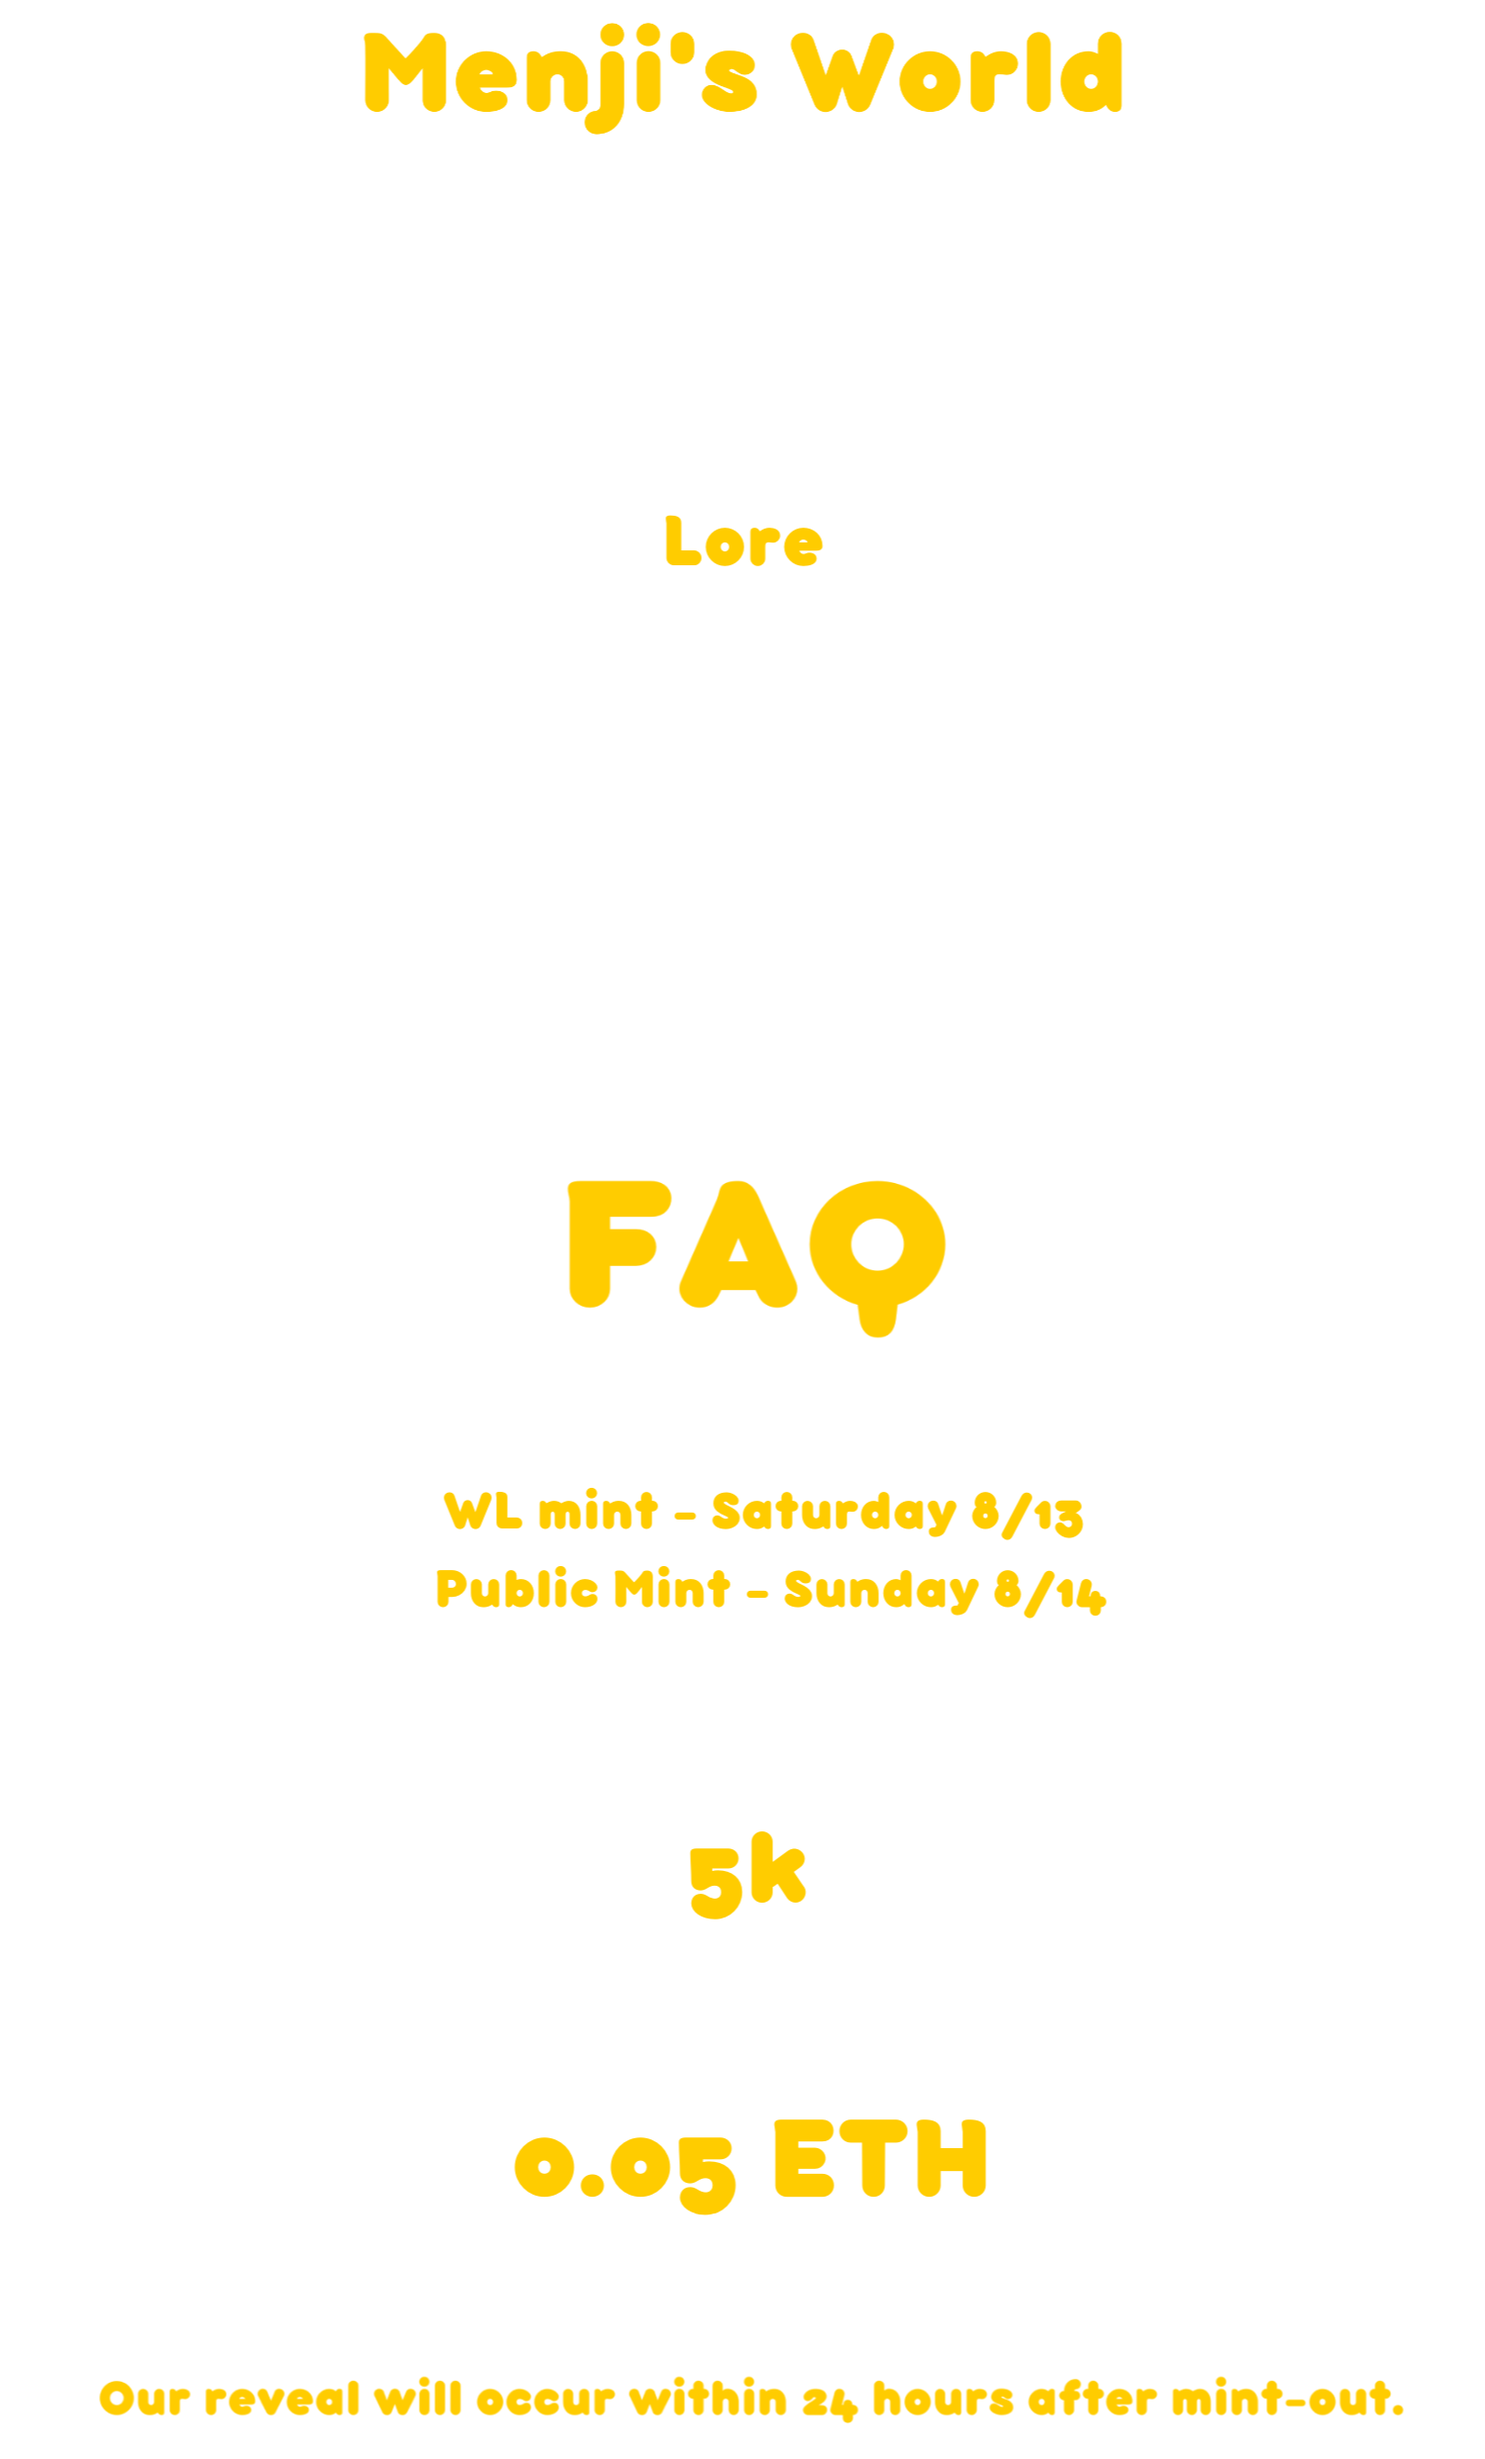
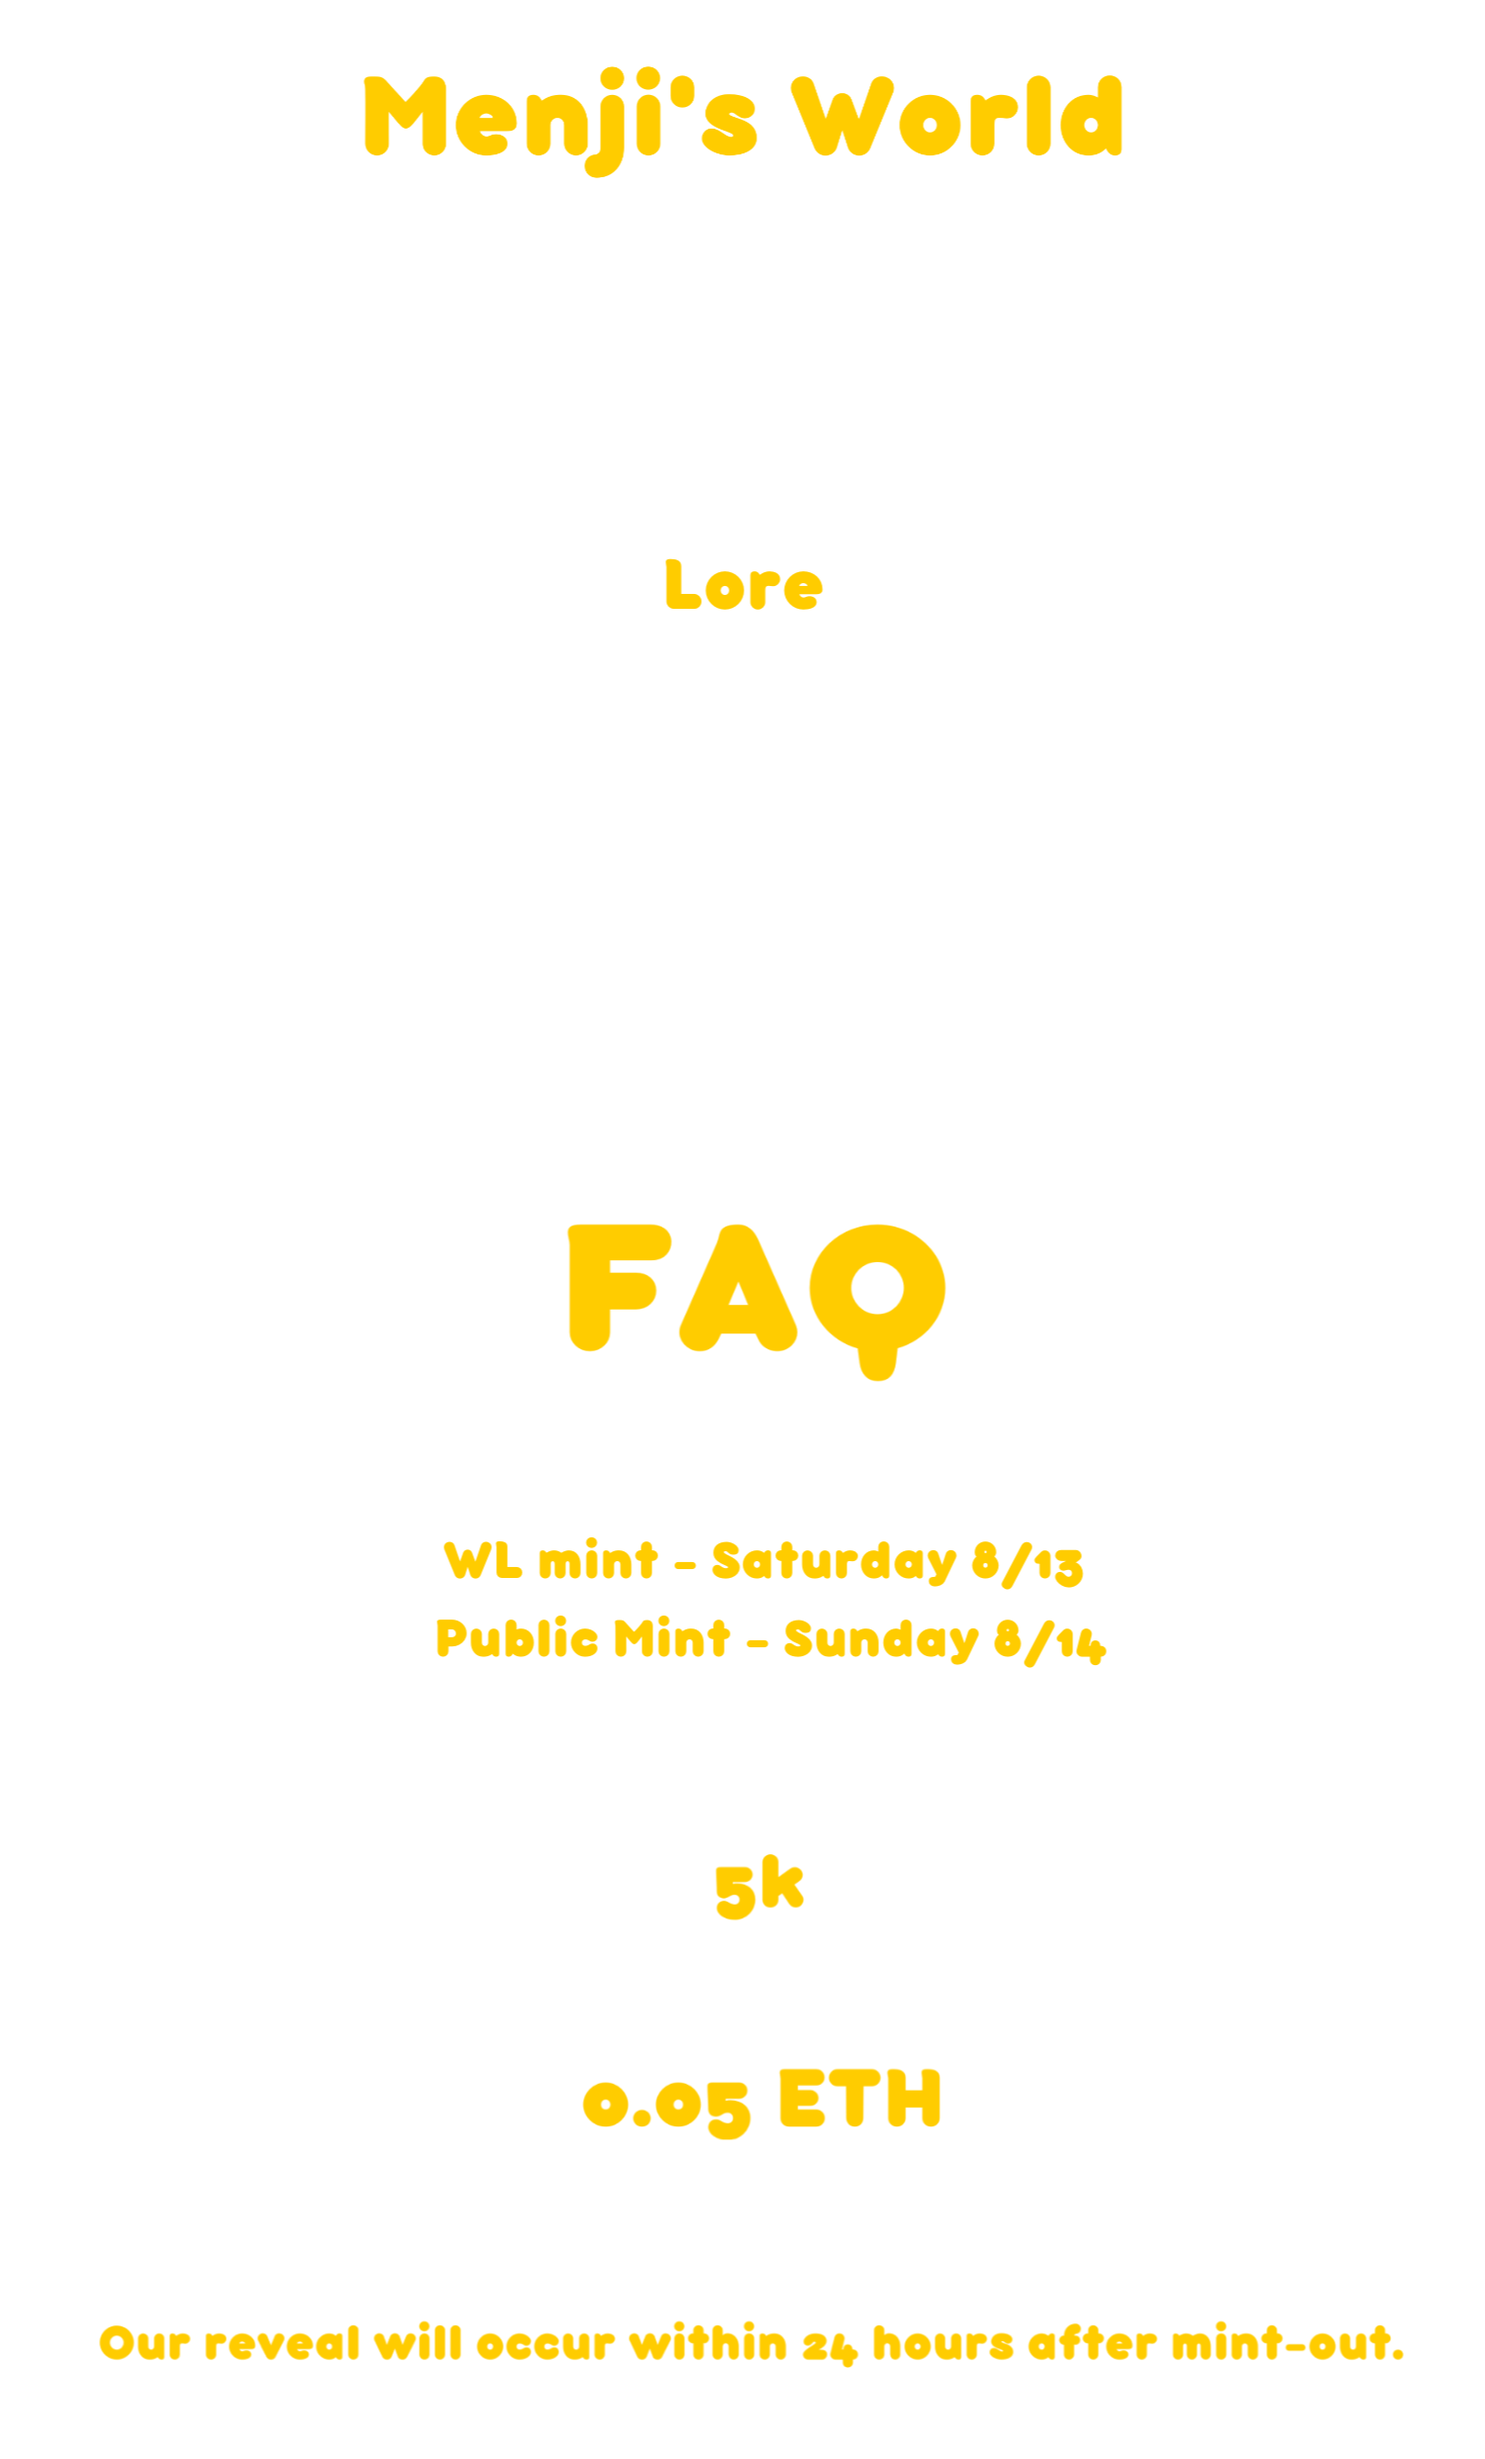
sdf
sdf

diff --git a/pages/home.js b/pages/home.js
@@ -1916,6 +1916,7 @@ function TeamSection() {
           layout='responsive'
           objectFit="contain"
     /></div>
+
     <div className={styles.teamContainer}>
       <div className={styles.teamMember}>
         <div className={styles.teamMemberImage}>
@@ -1929,7 +1930,12 @@ function TeamSection() {
                 src={'/_menjiTeamInfo.png'} 
                 width={500} 
                 height={179}
-                layout={'responsive'}/>      
+                layout={'responsive'}/>     
+        <div className={styles.socialButtonTeamContainer}>
+          <a className={styles.socialButtonTeam} href="https://twitter.com/m33nji" target="_blank" rel="noopener noreferrer">
+            <Image src={'/twitter.png'} width={50} height={50} />
+          </a> 
+        </div>       
       </div>
       <div className={styles.teamMember}>
         <div className={styles.teamMemberImage}>
@@ -1944,6 +1950,11 @@ function TeamSection() {
                 width={500} 
                 height={179}
                 layout={'responsive'} />
+        <div className={styles.socialButtonTeamContainer}>
+          <a className={styles.socialButtonTeam} href="https://twitter.com/DoctorEthereum" target="_blank" rel="noopener noreferrer">
+            <Image src={'/twitter.png'} width={50} height={50} />
+          </a>     
+        </div>             
       </div>   
       <div className={styles.teamMember}>
         <div className={styles.teamMemberImage}>
@@ -1958,6 +1969,11 @@ function TeamSection() {
                 width={500} 
                 height={179}
                 layout={'responsive'} />
+        <div className={styles.socialButtonTeamContainer}>
+`        <a className={styles.socialButtonTeam} href="https://twitter.com/stickydoteth" target="_blank" rel="noopener noreferrer">
+           <Image src={'/twitter.png'} width={50} height={50} />
+         </a>
+        </div>                  
       </div>         
       <div className={styles.teamMember}>
         <div className={styles.teamMemberImage}>
@@ -1972,30 +1988,32 @@ function TeamSection() {
                 width={500} 
                 height={179}
                 layout={'responsive'}/>
+        <div className={styles.socialButtonTeamContainer}>
+          <a className={styles.socialButtonTeam} href="https://twitter.com/jayg_nft" target="_blank" rel="noopener noreferrer">
+            <Image src={'/twitter.png'} width={50} height={50} />
+          </a>
+        </div>  
       </div>
     </div>
     </>)
 }
 function MintButton(props) {
   return (
-    ////pre release
+    //pre release
+    <div className={styles.mintButtonContainer}>
+      <a className={styles.mintButton} 
+        id='mintButton' 
+      >Mint This Week</a>
+    </div>
+    //// live version
     // <div className={styles.mintButtonContainer}>
     //   <a className={styles.mintButton} 
     //     id='mintButton' 
     //     onClick={() => {
     //       props.setMintModalOpen(true);
     //     }}
-    //   >Mint Aug 13/14</a>
+    //   >Mint Now</a>
     // </div>
-    //// live version
-    <div className={styles.mintButtonContainer}>
-      <a className={styles.mintButton} 
-        id='mintButton' 
-        onClick={() => {
-          props.setMintModalOpen(true);
-        }}
-      >Mint Now</a>
-    </div>
   )
 }
 function MainImage() {

diff --git a/styles/Home.module.css b/styles/Home.module.css
@@ -18,7 +18,7 @@
   left: 0;
   width: 100%;
   height: 100%;
-  z-index: -1;
+  z-index: 1;
 }
 
 .menjisWorldTitle {
@@ -96,7 +96,48 @@
   max-width: 23%;
   transition: all .2s,box-shadow .08s ease-in;
 }
-
+.socialButtonTeamContainer {
+  /* min-width: 23%;
+  max-width: 23%; */
+  display: flex;
+  flex: 1;
+  flex-direction: row;
+  justify-content: center;
+  align-items: center;
+  vertical-align: middle;
+  text-align: center;   
+}
+.socialButtonTeam {
+  width: 2.5rem;
+  height: 2.5rem;
+  border-radius: 50%;
+  border: 2px solid #ffffff;
+  color: #ffffff;
+  transition: all .2s,box-shadow .08s ease-in;
+  text-decoration: none;
+  cursor: pointer;
+  z-index: 99999;
+}
+/* .socialButtonTeamContainer a {
+  cursor: pointer;
+  z-index: 999999;
+} */
+/* .socialButtonTeam img {
+  width: 2.5rem;
+  height: 2.5rem;
+  border-radius: 50%;
+  border: 2px solid #ffffff;
+  color: #ffffff;
+  transition: all .2s,box-shadow .08s ease-in;
+} */
+/* .socialButtonTeamContainer a img {
+  width: 2.5rem;
+  height: 2.5rem;
+  border-radius: 50%;
+  border: 2px solid #ffffff;
+  color: #ffffff;
+  transition: all .2s,box-shadow .08s ease-in;
+} */
 .navBarContainer {
   width: 100%;
   flex: 1;
@@ -128,7 +169,6 @@
   flex-direction: row;
   align-items: right;
   flex-grow: 1;
-  /* flex-wrap: wrap; */
   margin-right: 1rem;
 }
 
